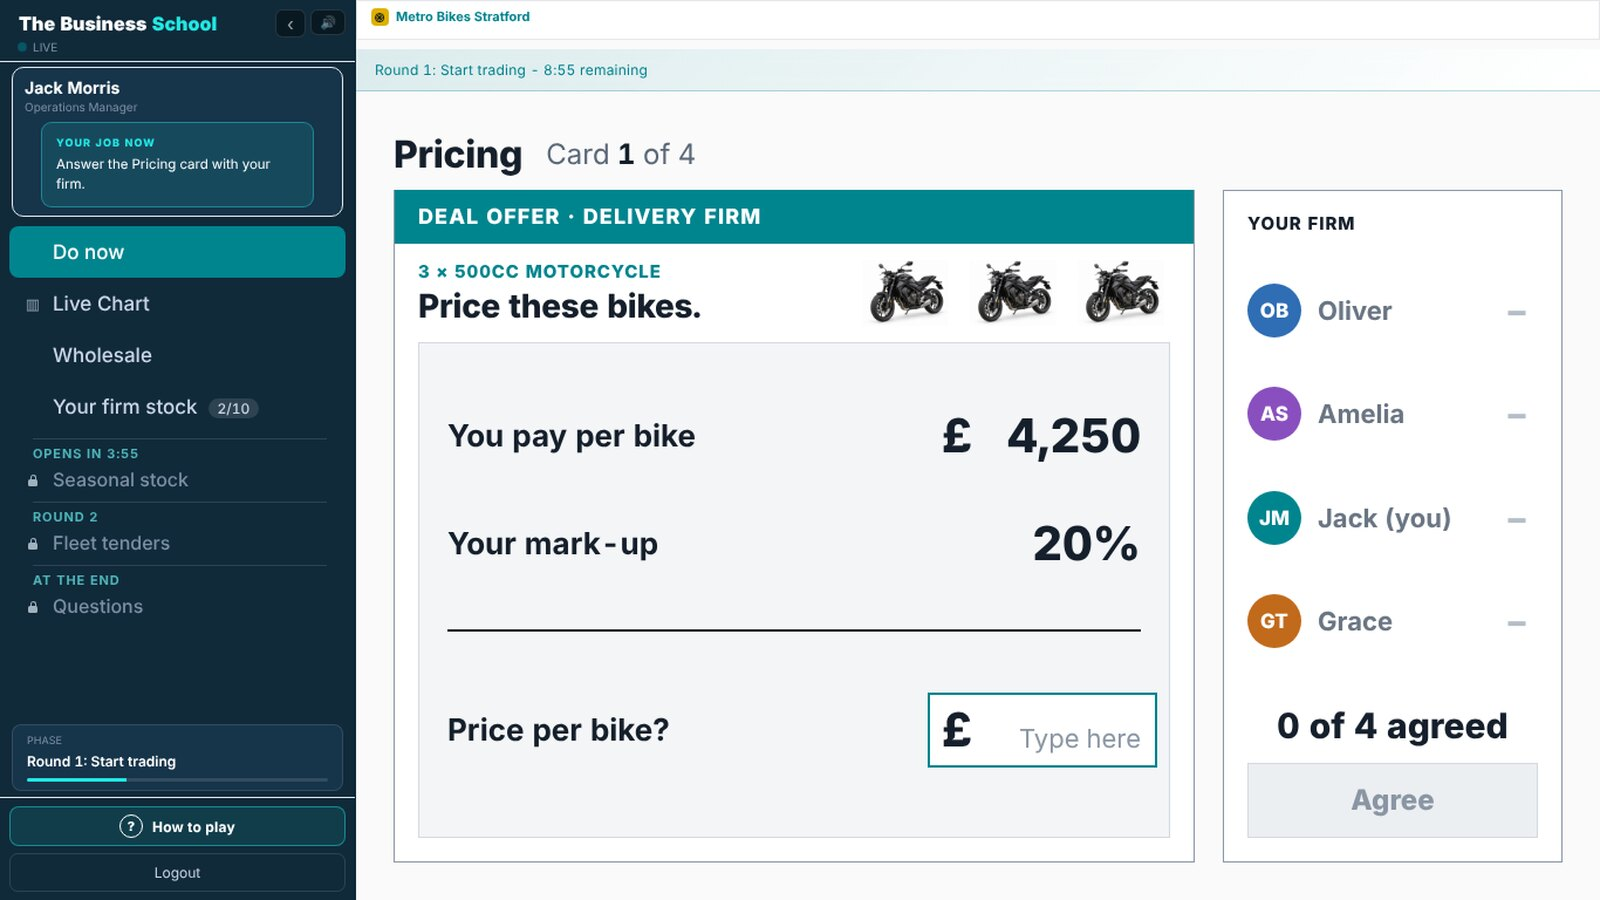
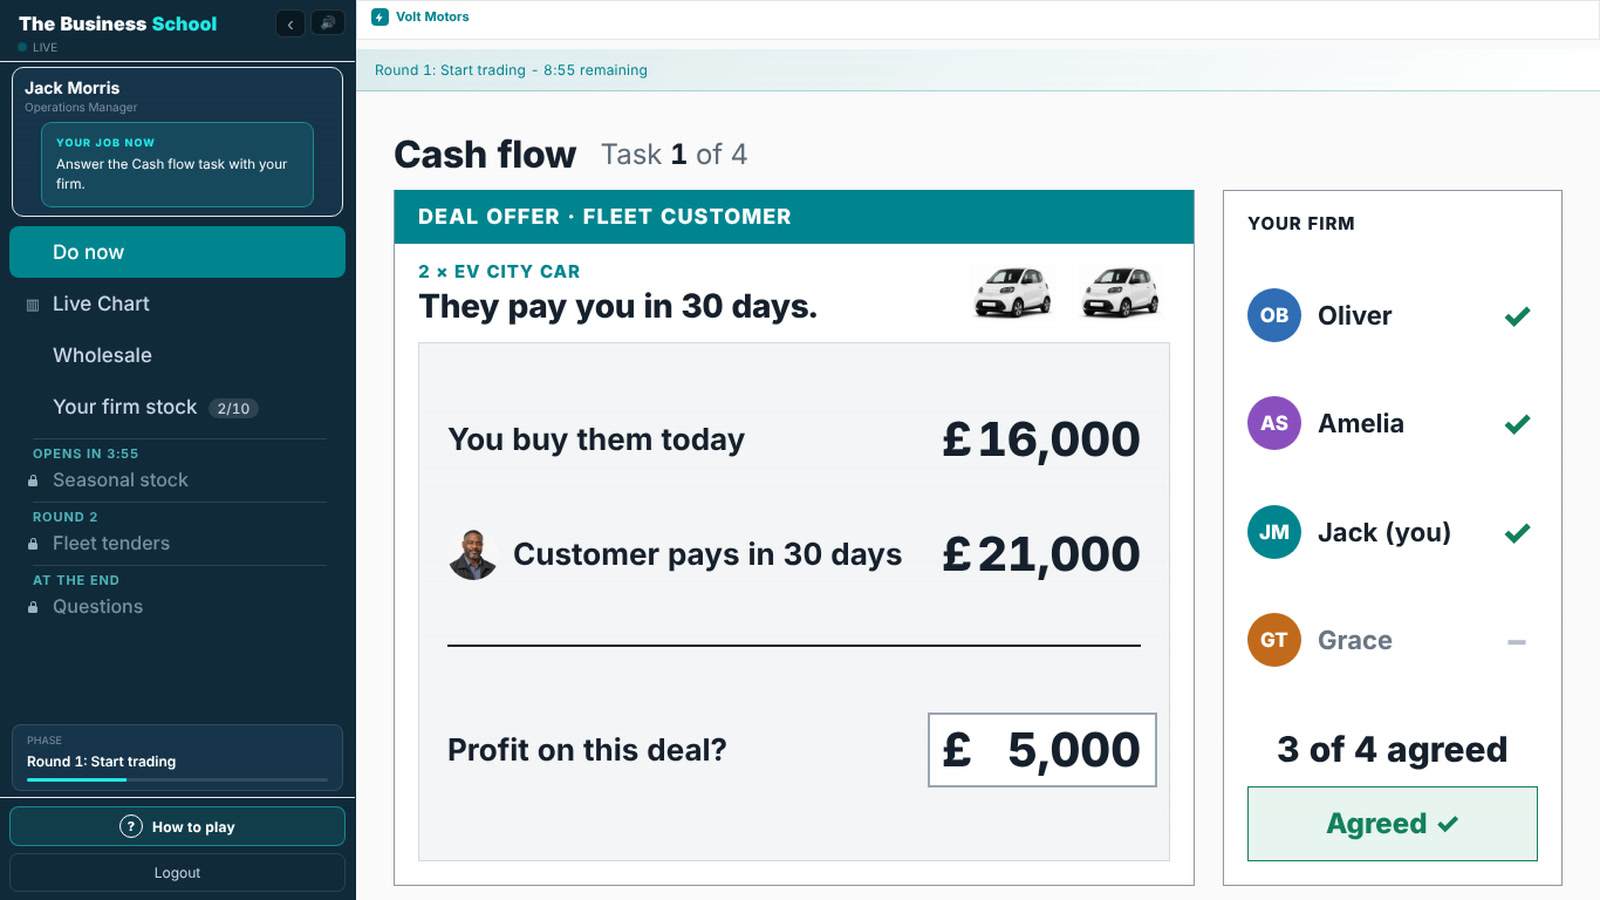
Topic pictures: show the live Task wording (Cash flow, Task 1 of 4)
Claude-Session: https://claude.ai/code/session_01Np2n7mwxyzcaQWByNZ1ReD

diff --git a/index.html b/index.html
@@ -641,7 +641,7 @@
         <figcaption>Students buy and sell with classmates, face to face.</figcaption>
       </figure>
       <figure class="motor-gal-item">
-        <img src="/assets/tbs-web/uk/uk-g-topic-card.jpg?v=20261029t" width="1600" height="900" loading="lazy" decoding="async" alt="A Pricing deal task: what the firm pays per bike, its mark-up, and the price to work out, with the firm panel beside it" />
+        <img src="/assets/tbs-web/uk/uk-g-topic-card.jpg?v=20261029u" width="1600" height="900" loading="lazy" decoding="async" alt="A Cash flow task: a deal offer with its own numbers, one answer box for the firm, and the firm panel showing who has agreed" />
         <figcaption>Each firm gets a deal task. The firm works out the numbers together.</figcaption>
       </figure>
       <figure class="motor-gal-item">
@@ -714,7 +714,7 @@
         <a href="/topic-tasks/" style="display:inline-flex;align-items:center;gap:8px;font-weight:600;font-size:16px;padding:13px 24px;border-radius:10px;text-decoration:none;background:#0a6b73;color:#fff">See the topic tasks</a>
       </div>
       <figure style="margin:0;border:1px solid #e3e9f1;border-radius:12px;overflow:hidden;box-shadow:0 18px 40px -32px rgba(18,35,63,.36)">
-        <picture><source media="(max-width:600px)" srcset="/assets/tbs-web/uk/uk-g-topic-card-detail.jpg?v=20261029t" width="1068" height="963"><img src="/assets/tbs-web/uk/uk-g-topic-card.jpg?v=20261029t" width="1600" height="900" loading="lazy" decoding="async" style="display:block;width:100%;height:auto" alt="A Pricing task: a deal offer with its own numbers, the price to work out, and the firm panel where each member agrees" /></picture>
+        <picture><source media="(max-width:600px)" srcset="/assets/tbs-web/uk/uk-g-topic-card-detail.jpg?v=20261029u" width="1000" height="600"><img src="/assets/tbs-web/uk/uk-g-topic-card.jpg?v=20261029u" width="1600" height="900" loading="lazy" decoding="async" style="display:block;width:100%;height:auto" alt="A Cash flow task: a deal offer with its own numbers, one answer box for the firm, and the firm panel showing who has agreed" /></picture>
       </figure>
     </div>
   </div>

diff --git a/topic-tasks/index.html b/topic-tasks/index.html
@@ -11,7 +11,7 @@
 <meta property="og:title" content="Topic tasks | The Business School">
 <meta property="og:description" content="Your exam topic, inside the live lesson. Each firm gets deal tasks with their own numbers.">
 <meta property="og:url" content="https://thebusiness.school/topic-tasks/">
-<meta property="og:image" content="https://thebusiness.school/assets/tbs-web/uk/uk-g-topic-card.jpg?v=20261029t">
+<meta property="og:image" content="https://thebusiness.school/assets/tbs-web/uk/uk-g-topic-card.jpg?v=20261029u">
 <meta name="twitter:card" content="summary_large_image">
 <link rel="icon" href="/favicon.ico" sizes="any">
 <link rel="icon" type="image/svg+xml" href="/assets/favicon.svg">
@@ -143,7 +143,7 @@ footer a{color:#40506e;text-decoration:none;margin-right:18px}
       <div class="card"><div class="n">2</div><h3>One answer</h3><p>The firm works it out together and agrees one answer.</p></div>
       <div class="card"><div class="n">3</div><h3>Win the deal</h3><p>A right answer wins the deal for the firm.</p></div>
     </div>
-    <figure class="shot"><picture><source media="(max-width:600px)" srcset="/assets/tbs-web/uk/uk-g-topic-card-detail.jpg?v=20261029t" width="1068" height="963"><img src="/assets/tbs-web/uk/uk-g-topic-card.jpg?v=20261029t" width="1600" height="900" loading="lazy" decoding="async" alt="A Pricing task: a deal offer for 3 motorcycles, what the firm pays per bike and its mark-up, and the price per bike to work out. The firm panel shows who has agreed."></picture><figcaption>A Pricing task. The firm agrees one answer.</figcaption></figure>
+    <figure class="shot"><picture><source media="(max-width:600px)" srcset="/assets/tbs-web/uk/uk-g-topic-card-detail.jpg?v=20261029u" width="1000" height="600"><img src="/assets/tbs-web/uk/uk-g-topic-card.jpg?v=20261029u" width="1600" height="900" loading="lazy" decoding="async" alt="A Cash flow task: a deal offer with its own numbers and one answer box for the firm. The firm panel shows who has agreed."></picture><figcaption>A Cash flow task. The firm agrees one answer.</figcaption></figure>
   </div>
 </section>
 
